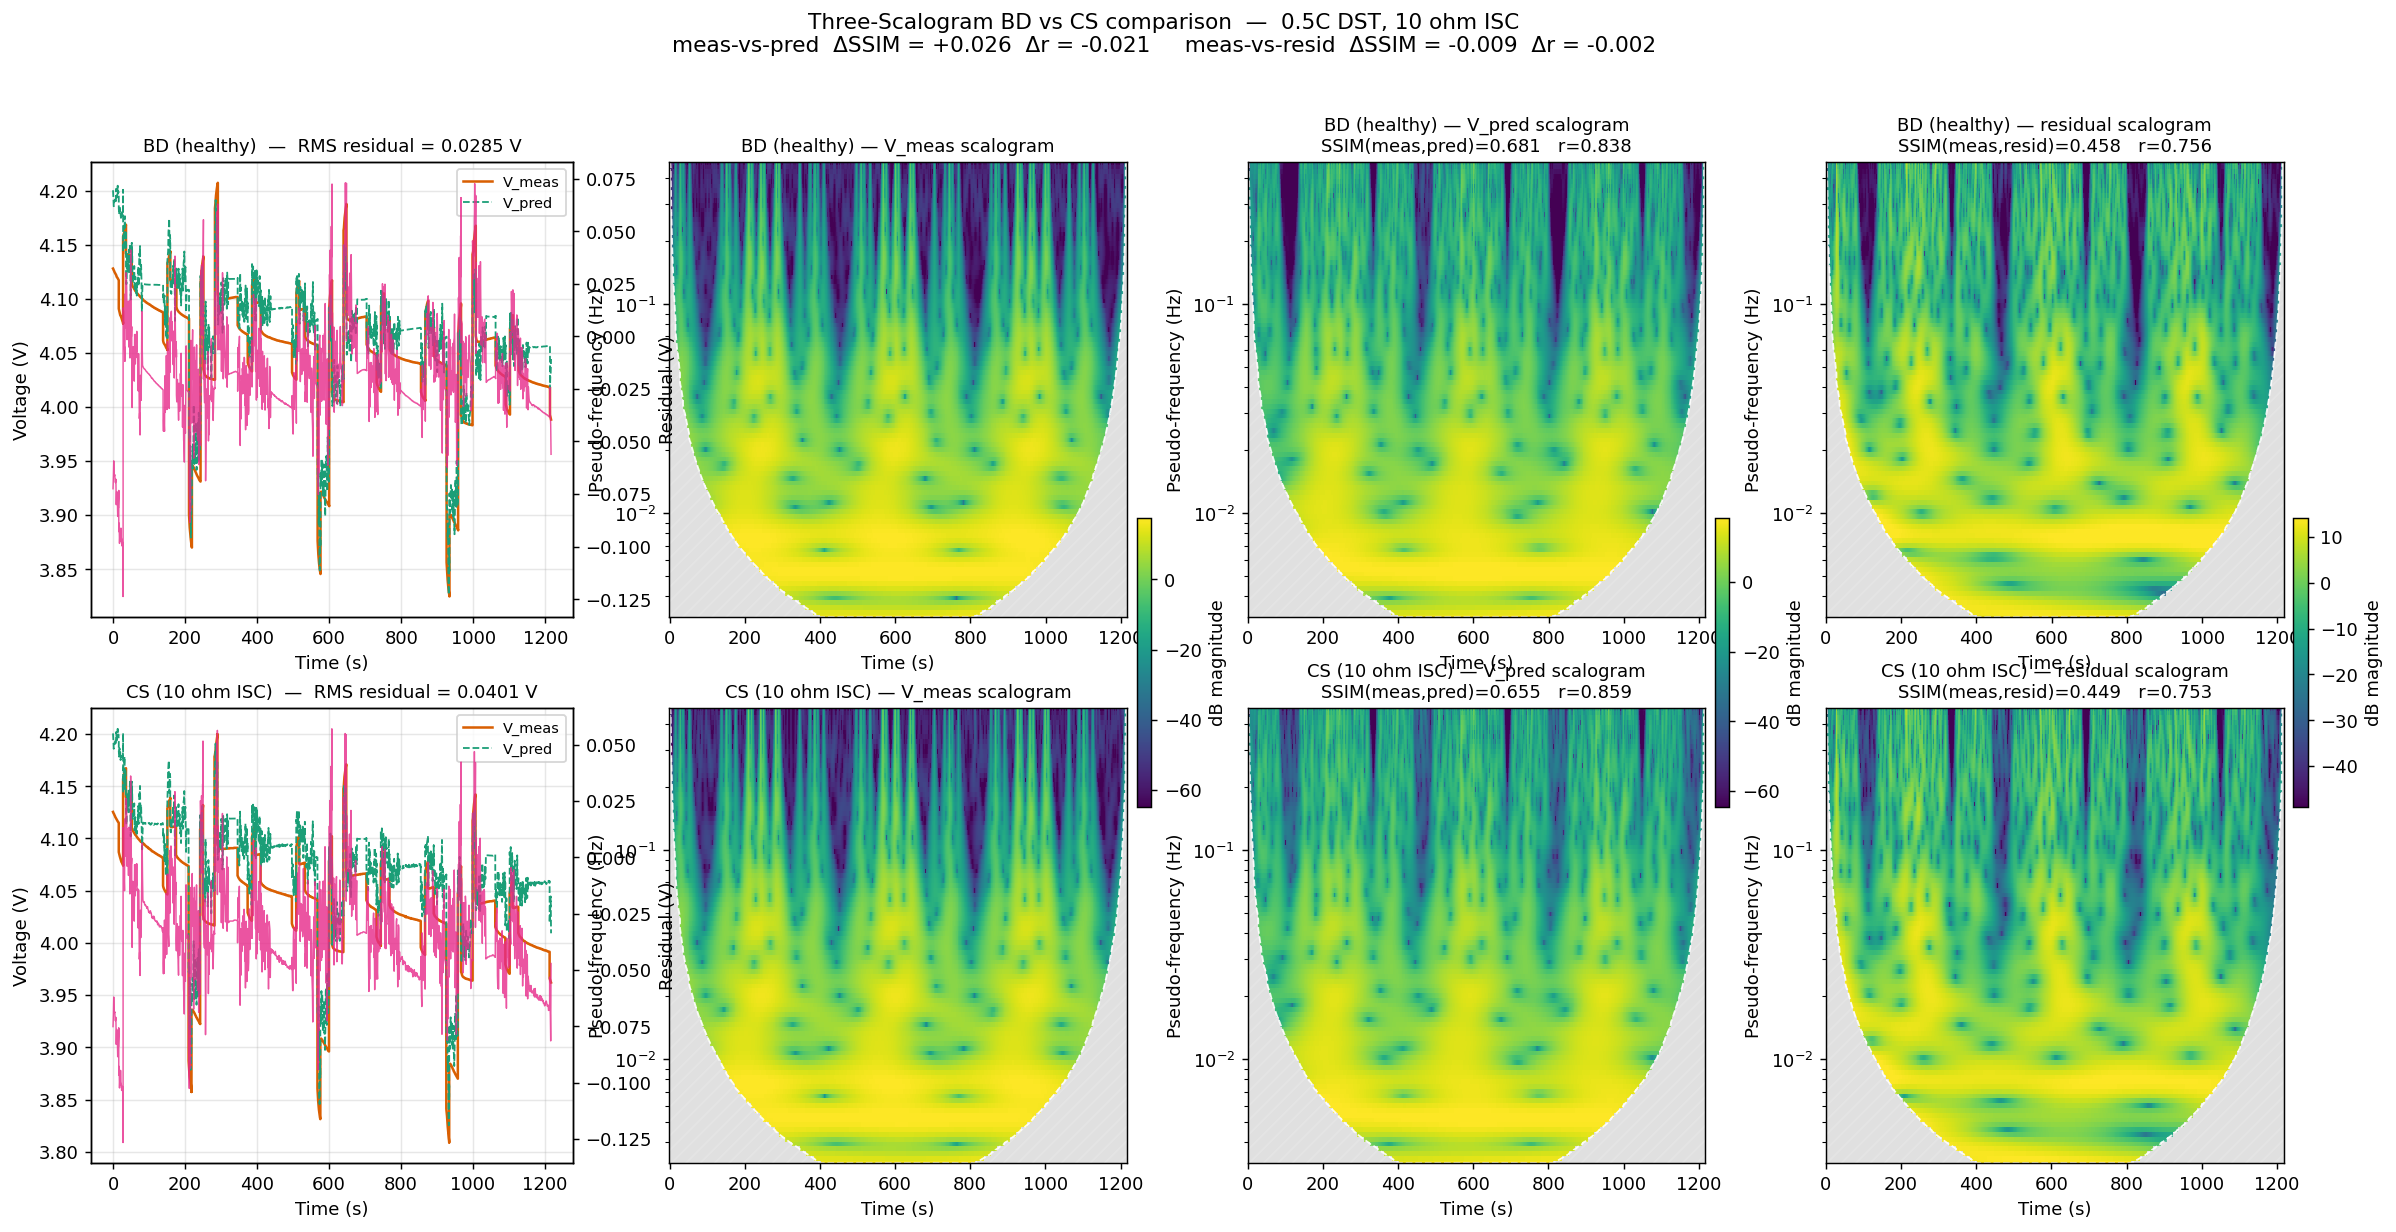
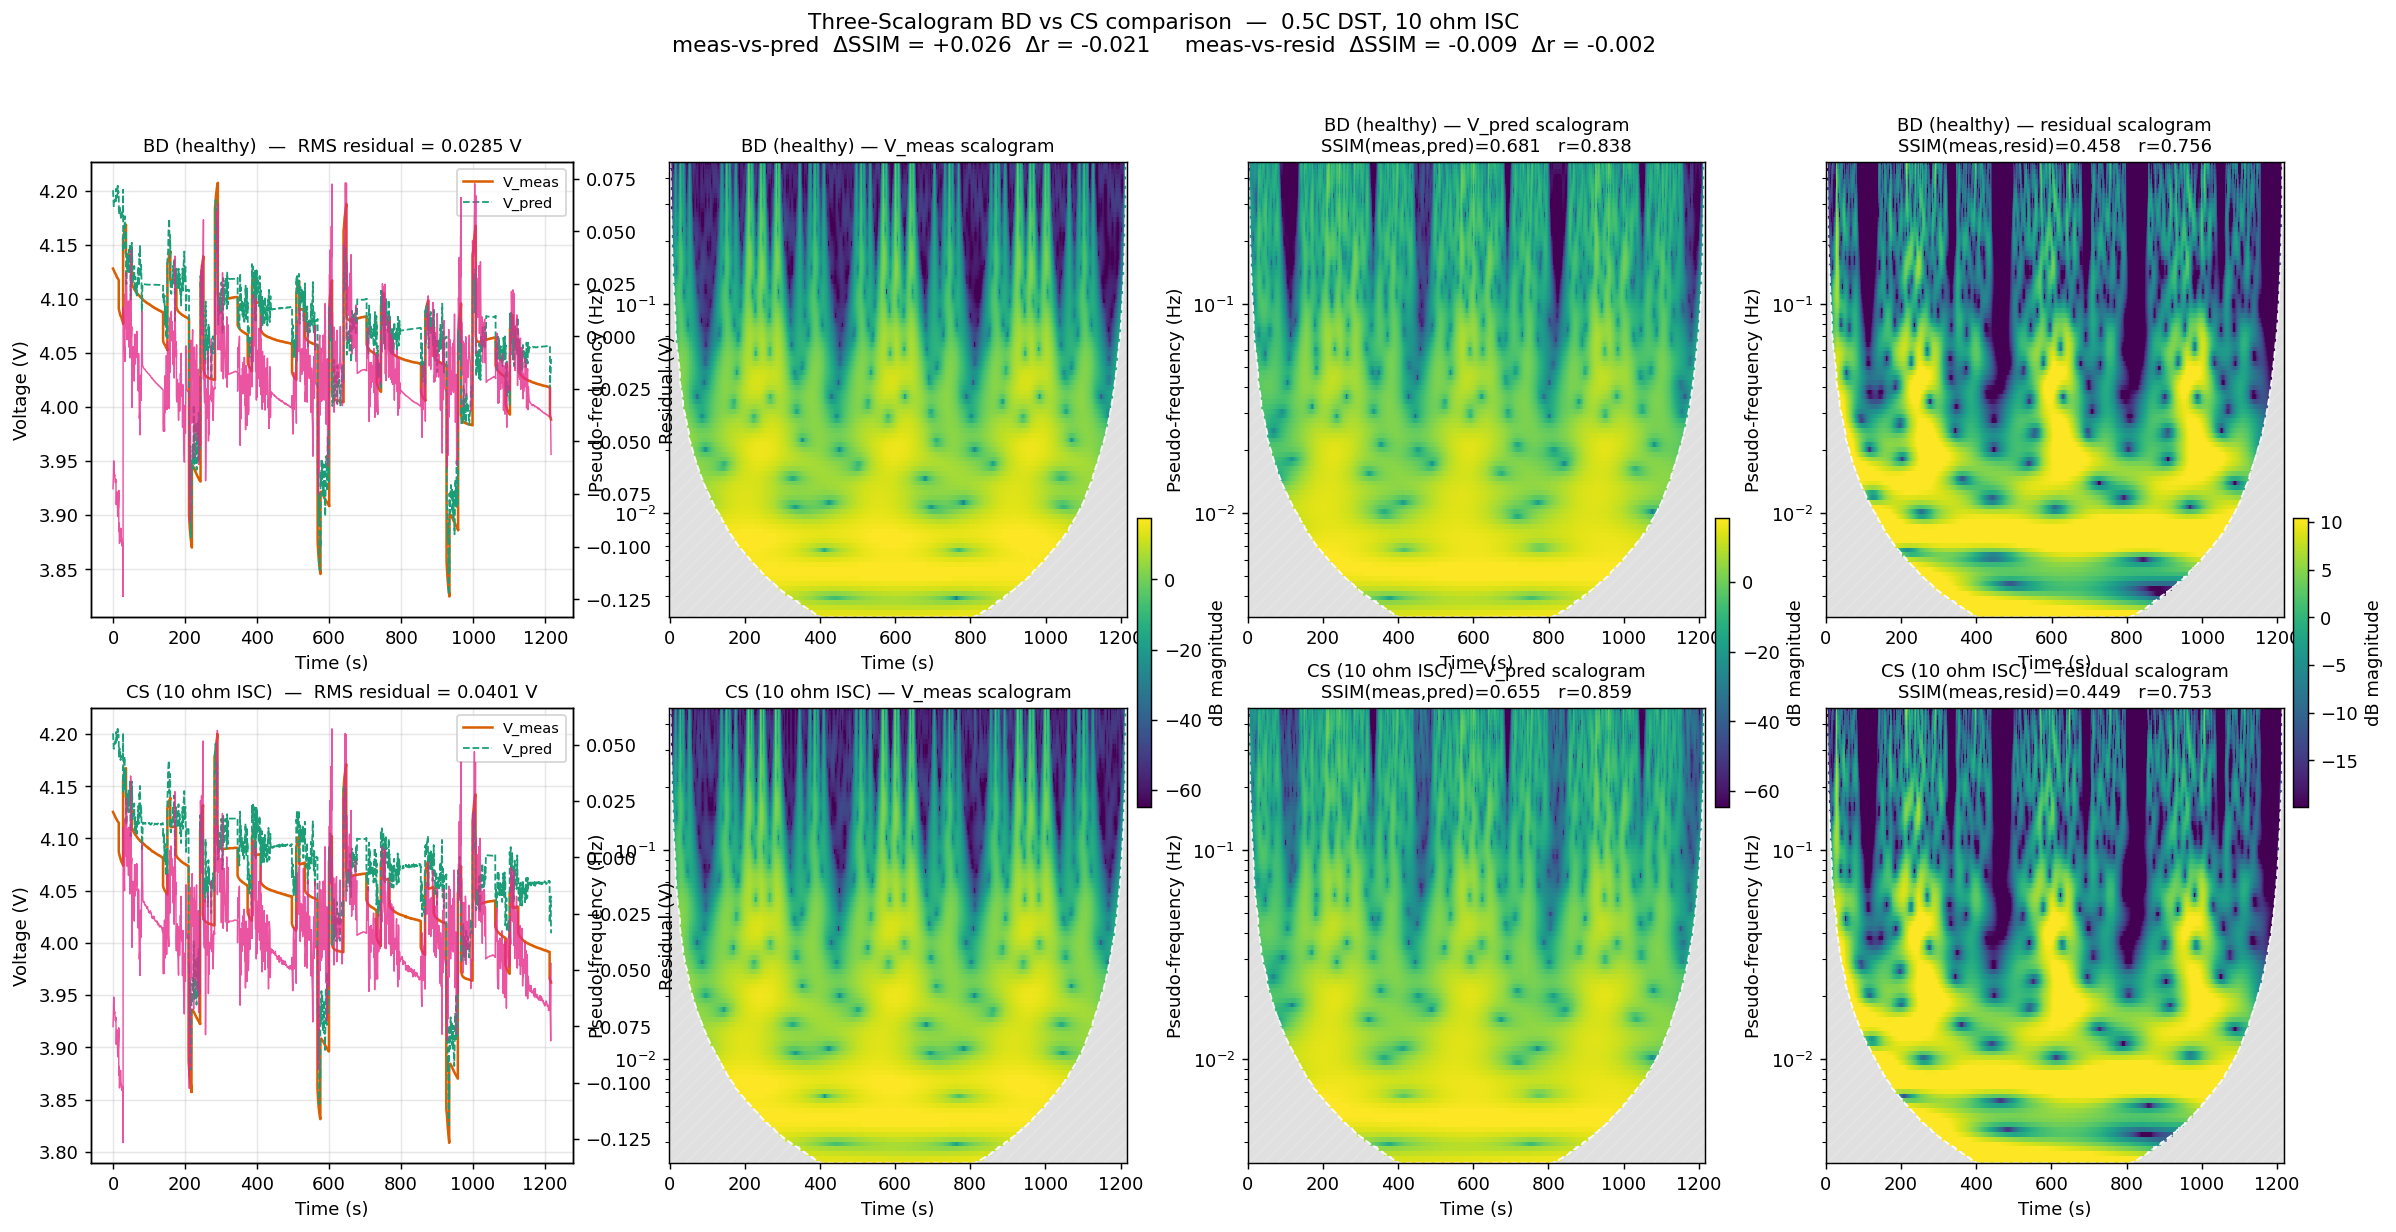
Chnage in CNN

Changed region(s): [[0.7412, 0.5552, 0.9574, 0.9562], [0.7412, 0.1234, 0.9574, 0.4935]]

diff --git a/src/visualization/compare_bd_cs.py b/src/visualization/compare_bd_cs.py
@@ -10,8 +10,13 @@ To make brightness directly comparable between BD and CS, each channel's
 percentile range (vmin, vmax) is computed on the COMBINED dB distribution
 from both files — so a residual that is pure noise in BD and structured
 in CS renders at visibly different intensities on the same colormap.
-The per-window cubic-detrend + z-score preprocessing inside
-`raw_log_scalogram` and the COI mask are untouched (hard constraints).
+
+Per-channel preprocessing (matches `build_three_scalogram_image`):
+  V_meas, V_pred  → cubic detrend + z-score (the ~1 V OCV envelope must
+                    be removed or it saturates the lowest scales).
+  residual        → mean-subtract + z-score (the slow drift IS the ISC
+                    diagnostic; cubic detrend would absorb it).
+The COI mask is untouched (hard constraint).
 """
 
 from __future__ import annotations
@@ -149,10 +154,15 @@ def compare_bd_cs(bd_file: str,
     delta_ssim_resid = cs_metrics["ssim_meas_resid"] - bd_metrics["ssim_meas_resid"]
     delta_pcc_resid = cs_metrics["r_meas_resid"] - bd_metrics["r_meas_resid"]
 
-    # Shared per-channel dB ranges so BD and CS are directly comparable
-    vmin_m, vmax_m = _shared_range(bd_sc_m, cs_sc_m)
-    vmin_p, vmax_p = _shared_range(bd_sc_p, cs_sc_p)
-    vmin_r, vmax_r = _shared_range(bd_sc_r, cs_sc_r)
+    # Shared per-channel dB ranges so BD and CS are directly comparable.
+    # Residual gets a tighter percentile (10-90) because the BD vs CS gap on
+    # the residual is small in dB terms (per-window drift ~18 mV against
+    # oscillation std ~23 mV); the wider 1-99 range washes the gap out
+    # toward the bottom of the colormap. V_meas / V_pred keep 1-99 since
+    # their dynamic range is dominated by DST current pulses.
+    vmin_m, vmax_m = _shared_range(bd_sc_m, cs_sc_m, pct_lo=1.0,  pct_hi=99.0)
+    vmin_p, vmax_p = _shared_range(bd_sc_p, cs_sc_p, pct_lo=1.0,  pct_hi=99.0)
+    vmin_r, vmax_r = _shared_range(bd_sc_r, cs_sc_r, pct_lo=10.0, pct_hi=90.0)
 
     bd_meta = parse_filename(bd_file)
     cs_meta = parse_filename(cs_file)
@@ -234,4 +244,135 @@ def compare_bd_cs(bd_file: str,
             metrics=metrics,
         )
     print(f"Appended similarity rows -> {SIMILARITY_CSV}")
+    return out_path
+
+
+# ----------------------------------------------------------------------
+#  Hero figure (report / slide layout)
+# ----------------------------------------------------------------------
+def compare_bd_cs_hero(bd_file: str,
+                       cs_file: str,
+                       pinn_weights: str,
+                       out_path: str,
+                       window_size: int = WINDOW_SIZE,
+                       start_sample: int = 0,
+                       sampling_time: Optional[float] = None,
+                       capacity_as: Optional[float] = None) -> str:
+    """Three-column "hero" comparison built for a report or slide.
+
+    Layout (2 rows x 3 cols):
+        col 1 -- V_meas (orange) and V_pred (green dashed) overlaid in time
+        col 2 -- residual e(t) = V_meas - V_pred in time, with smooth mean
+        col 3 -- residual scalogram (mean-detrended), shared dB range so
+                 BD and CS are directly comparable on the same colormap
+
+    The point of this figure is to make a single visual claim: the residual
+    on BD is small and oscillation-dominated, while the residual on CS shows
+    the slow ISC drift that re-emerges in the low-frequency band of the
+    scalogram. No V_meas / V_pred standalone scalograms (that's what the
+    diagnostic 2x4 figure is for); this is the "what does the diagnostic
+    actually look like?" version.
+    """
+    nn = load_pinn(pinn_weights)
+
+    bd_pred = predict_voltage_series(nn, load_tsinghua_csv(bd_file)["discharge_df"],
+                                     sampling_time=sampling_time, capacity_as=capacity_as)
+    cs_pred = predict_voltage_series(nn, load_tsinghua_csv(cs_file)["discharge_df"],
+                                     sampling_time=sampling_time, capacity_as=capacity_as)
+
+    bd_w = _select_window(bd_pred, window_size, start_sample)
+    cs_w = _select_window(cs_pred, window_size, start_sample)
+    fs = 1.0
+
+    # Residual scalogram only (mean detrend -- preserves the slow ISC drift).
+    bd_sc_r, f, coi = _scalogram(bd_w["residual"], fs, detrend="mean")
+    cs_sc_r, _, _   = _scalogram(cs_w["residual"], fs, detrend="mean")
+
+    # Tight residual dB range (10-90 percentile) so the BD/CS contrast reads
+    # at slide size; the 1-99 default washes the small dB gap to the bottom
+    # of the colormap.
+    vmin_r, vmax_r = _shared_range(bd_sc_r, cs_sc_r, pct_lo=10.0, pct_hi=90.0)
+
+    bd_meta = parse_filename(bd_file)
+    cs_meta = parse_filename(cs_file)
+
+    fig, axes = plt.subplots(2, 3, figsize=(16, 8.5),
+                             gridspec_kw={"width_ratios": [1.1, 1.1, 1.4]})
+
+    last_mesh = None
+    for row, (label, color, w, sc_r, meta) in enumerate([
+        ("BD healthy",                "#1b9e77", bd_w, bd_sc_r, bd_meta),
+        (f"CS {cs_meta['ohm']} Ω ISC", "#d95f02", cs_w, cs_sc_r, cs_meta),
+    ]):
+        # Col 1 -- voltage overlay
+        ax_v = axes[row, 0]
+        ax_v.plot(w["t"], w["v_meas"], color="#d95f02", linewidth=1.6, label="V_meas")
+        ax_v.plot(w["t"], w["v_pred"], color="#1b9e77", linewidth=1.4,
+                  linestyle="--", label="V_pred (PINN)")
+        ax_v.set_xlabel("Time (s)", fontsize=11)
+        ax_v.set_ylabel("Voltage (V)", fontsize=11)
+        ax_v.grid(True, alpha=0.3)
+        ax_v.legend(loc="upper right", fontsize=10, framealpha=0.9)
+        ax_v.set_title(f"{label}\nVoltage trace ({window_size}-sample window)",
+                       fontsize=12, color=color, fontweight="bold")
+        ax_v.tick_params(labelsize=10)
+
+        # Col 2 -- residual time series
+        ax_r = axes[row, 1]
+        residual_mv = w["residual"] * 1000.0
+        smooth = np.convolve(residual_mv, np.ones(60) / 60.0, mode="same")
+        ax_r.plot(w["t"], residual_mv, color="#e7298a", linewidth=0.8,
+                  alpha=0.55, label="raw")
+        ax_r.plot(w["t"], smooth, color="black", linewidth=1.6,
+                  label="60-s mean")
+        ax_r.axhline(0.0, color="black", linewidth=0.6, alpha=0.5)
+        rms_mv = float(np.sqrt(np.mean(residual_mv ** 2)))
+        mean_mv = float(np.mean(residual_mv))
+        ax_r.set_xlabel("Time (s)", fontsize=11)
+        ax_r.set_ylabel("Residual e(t) (mV)", fontsize=11)
+        ax_r.grid(True, alpha=0.3)
+        ax_r.legend(loc="upper right", fontsize=10, framealpha=0.9)
+        ax_r.set_title(f"Residual e(t) = V_meas − V_pred\n"
+                       f"RMS = {rms_mv:.1f} mV    mean = {mean_mv:+.1f} mV",
+                       fontsize=12, color=color, fontweight="bold")
+        ax_r.tick_params(labelsize=10)
+
+        # Col 3 -- residual scalogram
+        ax_sc = axes[row, 2]
+        last_mesh = _draw_scalogram(
+            ax_sc, sc_r, f, coi, w["t"], vmin_r, vmax_r,
+            f"{label}  —  residual scalogram\n(mean-detrend; shared dB range)")
+        ax_sc.title.set_color(color)
+        ax_sc.title.set_fontweight("bold")
+        ax_sc.title.set_fontsize(12)
+        ax_sc.tick_params(labelsize=10)
+
+    fig.suptitle(
+        f"ISC fault diagnostic — Tsinghua NCM811 {bd_meta['charge_rate']}C "
+        f"{bd_meta['discharge_mode']}   |   BD healthy vs CS "
+        f"{cs_meta['ohm']} Ω severe ISC",
+        fontsize=14, fontweight="bold", y=0.995,
+    )
+    fig.text(
+        0.5, 0.012,
+        "Reading: BD residual oscillates around zero (oscillations only); "
+        "CS residual drifts negative as SOC drains and that slow drift renders "
+        "as low-frequency energy in the residual scalogram — the diagnostic feature.",
+        ha="center", fontsize=10, color="#444",
+    )
+
+    # tight_layout first, leaving room on the right for a manual colorbar.
+    # Reserving space via the `rect` parameter avoids the "Axes not compatible
+    # with tight_layout" warning that fires when fig.colorbar(ax=axes[:,2])
+    # injects a row-spanning colorbar into the layout.
+    fig.tight_layout(rect=[0, 0.035, 0.92, 0.965])
+    if last_mesh is not None:
+        cax = fig.add_axes([0.93, 0.12, 0.012, 0.78])  # [left, bottom, w, h]
+        fig.colorbar(last_mesh, cax=cax,
+                     label="dB magnitude (residual scalogram)")
+
+    os.makedirs(os.path.dirname(out_path), exist_ok=True)
+    fig.savefig(out_path, dpi=150, bbox_inches="tight")
+    plt.close(fig)
+    print(f"Saved hero figure -> {out_path}")
     return out_path

diff --git a/main.py b/main.py
@@ -80,7 +80,7 @@ def _cmd_infer(args):
 
 
 def _cmd_compare(args):
-    from src.visualization.compare_bd_cs import compare_bd_cs
+    from src.visualization.compare_bd_cs import compare_bd_cs, compare_bd_cs_hero
     from src.data.tsinghua_loader import list_phase1_pairs
 
     pairs = list_phase1_pairs(args.dataset_root,
@@ -92,15 +92,20 @@ def _cmd_compare(args):
             f"No BD/CS pair at {args.ohm} ohm for {args.charge_rate}C / {args.discharge_mode}"
         )
     bd, cs, ohm = pairs[0]
-    out = os.path.join(args.out_dir, f"bd_vs_cs_{ohm}ohm.png")
-    compare_bd_cs(
-        bd_file=bd,
-        cs_file=cs,
-        pinn_weights=args.pinn_weights,
-        out_path=out,
-        window_size=args.window_size,
-        start_sample=args.start_sample,
-    )
+    if args.style == "hero":
+        out = os.path.join(args.out_dir, f"hero_bd_vs_cs_{ohm}ohm.png")
+        compare_bd_cs_hero(
+            bd_file=bd, cs_file=cs,
+            pinn_weights=args.pinn_weights, out_path=out,
+            window_size=args.window_size, start_sample=args.start_sample,
+        )
+    else:
+        out = os.path.join(args.out_dir, f"bd_vs_cs_{ohm}ohm.png")
+        compare_bd_cs(
+            bd_file=bd, cs_file=cs,
+            pinn_weights=args.pinn_weights, out_path=out,
+            window_size=args.window_size, start_sample=args.start_sample,
+        )
 
 
 def _cmd_scalogram_similarity(args):
@@ -194,6 +199,10 @@ def build_parser():
     p_cmp.add_argument("--out-dir", default=os.path.join(RESULTS_DIR, "three_scalograms"))
     p_cmp.add_argument("--window-size", type=int, default=WINDOW_SIZE)
     p_cmp.add_argument("--start-sample", type=int, default=0)
+    p_cmp.add_argument("--style", choices=["full", "hero"], default="full",
+                       help="`full` -> 2x4 diagnostic figure (default); "
+                            "`hero` -> 2x3 report/slide layout focused on "
+                            "the residual story")
     p_cmp.set_defaults(func=_cmd_compare)
 
     p_ss = sub.add_parser("scalogram-similarity",

diff --git a/src/scalograms/three_scalogram_builder.py b/src/scalograms/three_scalogram_builder.py
@@ -2,10 +2,16 @@
 Build (224, 224, 3) scalogram stacks from V_meas, V_pred, and the residual
 e(t) = V_meas - V_pred.
 
-Channel order is [meas, pred, residual]. Each channel runs through exactly
-the same cubic-detrend + z-score + CWT + COI-mask path the Wavelet_Analysis
-project implements (raw_log_scalogram), then gets percentile-range
-normalized to [0, 1] and bilinearly resized to 224×224.
+Channel order is [meas, pred, residual]. Each channel runs through the
+same CWT + COI-mask + percentile-normalize + 224x224 resize path, but
+with PER-CHANNEL detrend choice:
+
+    V_meas, V_pred -> cubic detrend + z-score
+    residual       -> mean-subtract + z-score (no polynomial detrend)
+
+Cubic detrend on the residual would absorb the slow ISC drift (the actual
+fault diagnostic). See `build_three_scalogram_image` for the rationale,
+and `preprocess_window` in src/wavelet/image_utils.py for the modes.
 """
 
 from __future__ import annotations
